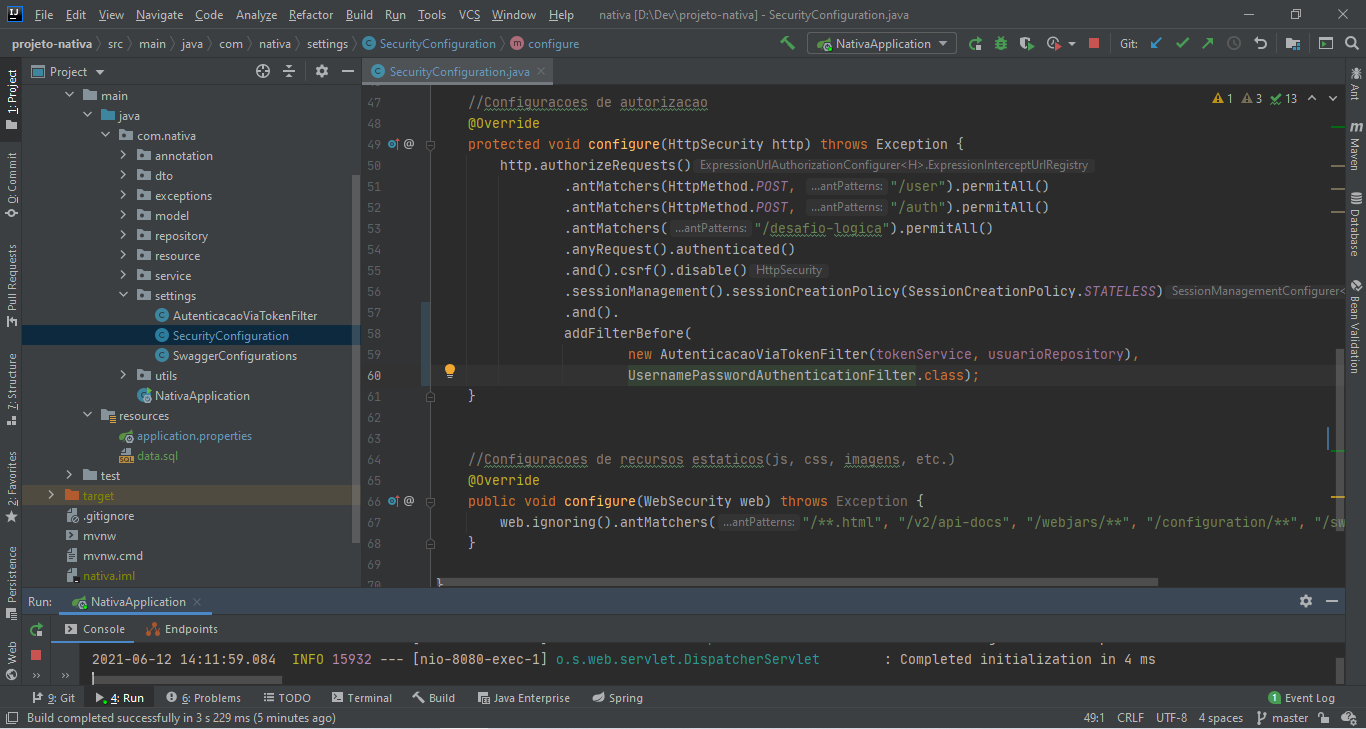
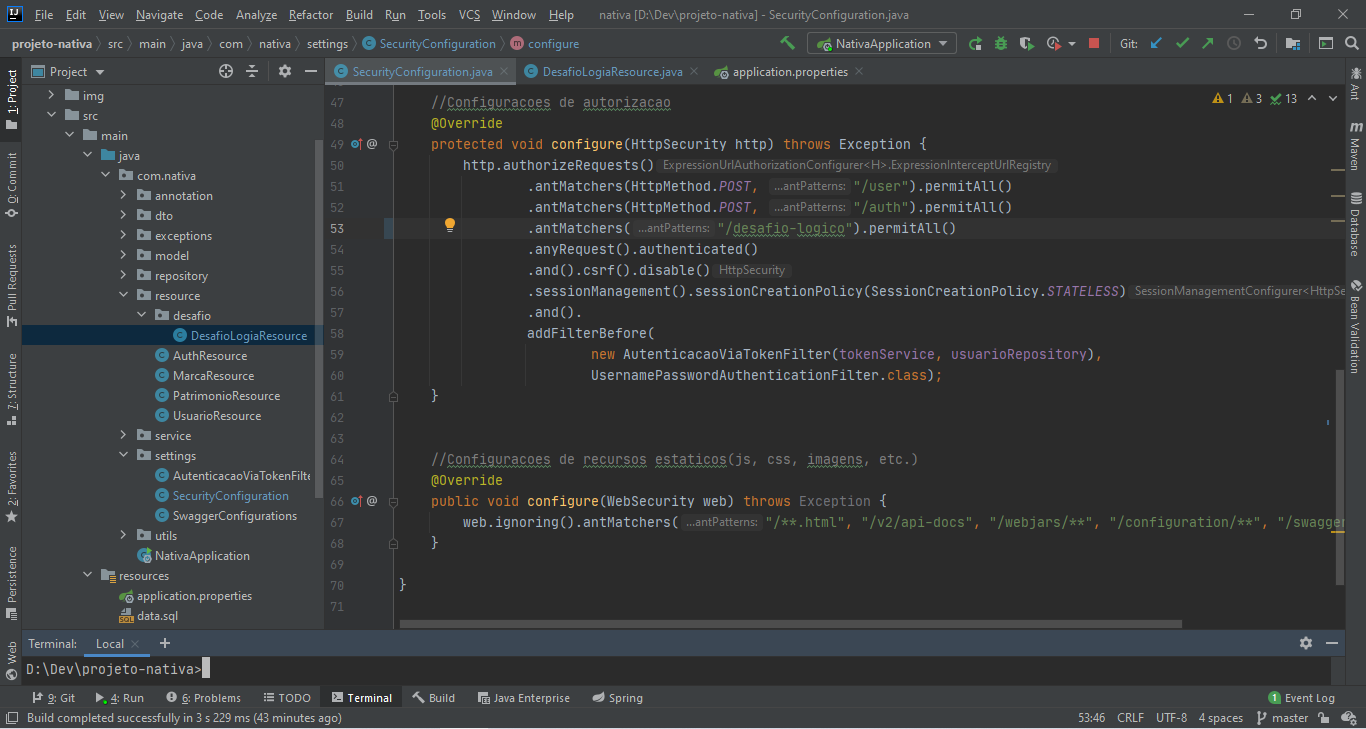
alterando rota desafio-logica para desafio-logico

diff --git a/src/main/java/com/nativa/settings/SecurityConfiguration.java b/src/main/java/com/nativa/settings/SecurityConfiguration.java
@@ -50,7 +50,7 @@ public class SecurityConfiguration  extends WebSecurityConfigurerAdapter {
         http.authorizeRequests()
                 .antMatchers(HttpMethod.POST, "/user").permitAll()
                 .antMatchers(HttpMethod.POST, "/auth").permitAll()
-                .antMatchers("/desafio-logica").permitAll()
+                .antMatchers("/desafio-logico").permitAll()
                 .anyRequest().authenticated()
                 .and().csrf().disable()
                 .sessionManagement().sessionCreationPolicy(SessionCreationPolicy.STATELESS)

diff --git a/src/main/java/com/nativa/resource/desafio/DesafioLogiaResource.java b/src/main/java/com/nativa/resource/desafio/DesafioLogiaResource.java
@@ -12,7 +12,7 @@ import org.springframework.web.bind.annotation.RestController;
 import com.nativa.service.desafio.DesafioLogicaService;
 
 @RestController
-@RequestMapping("/desafio-logica")
+@RequestMapping("/desafio-logico")
 public class DesafioLogiaResource {
 
     @Autowired private DesafioLogicaService service;
